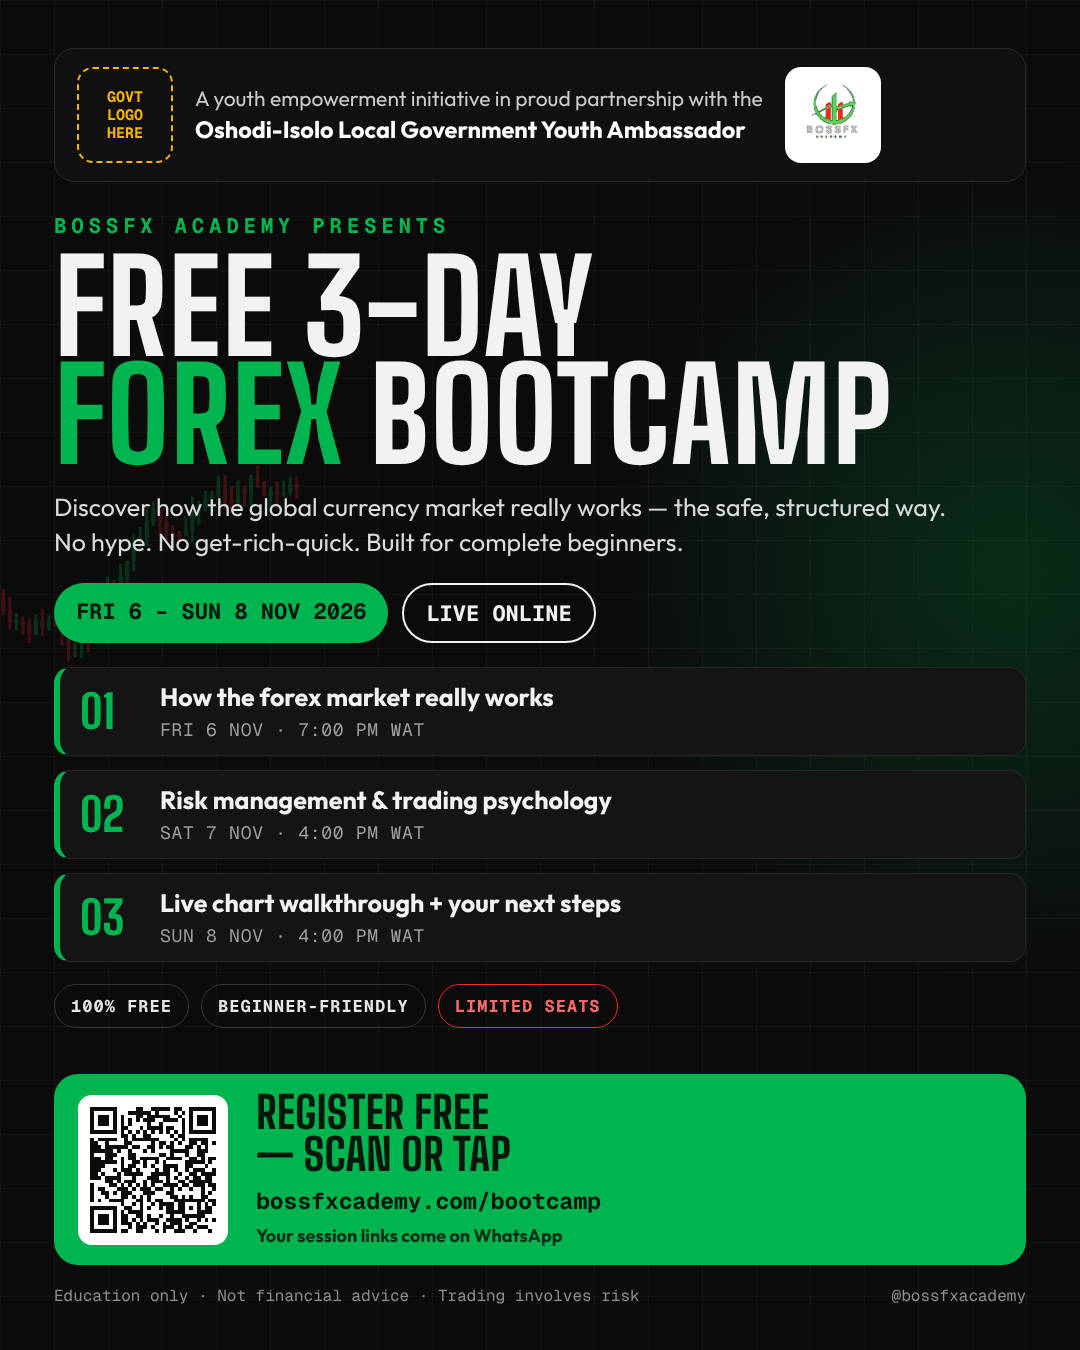
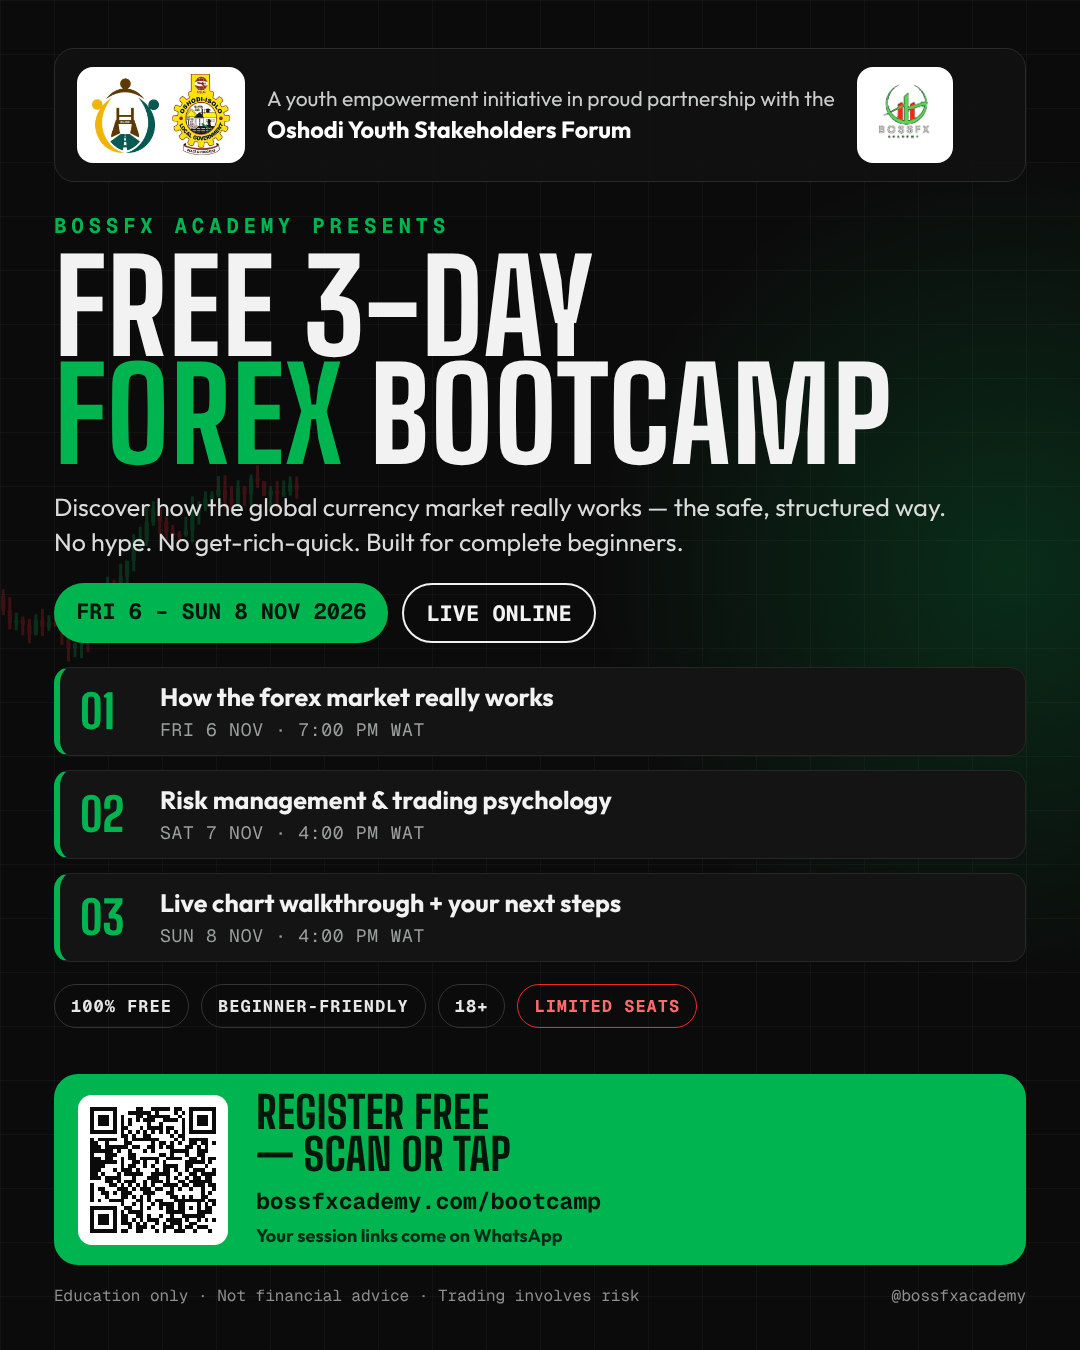
Bootcamp: credit Oshodi Youth Stakeholders Forum, refresh preview image
Claude-Session: https://claude.ai/code/session_014NTNTKExc1Q6o1ktrhgG1H

Changed region(s): [[0.0611, 0.0311, 0.8861, 0.1244], [0.4278, 0.7156, 0.5194, 0.7778], [0.55, 0.7156, 0.6111, 0.7467]]

diff --git a/bootcamp/index.html b/bootcamp/index.html
@@ -66,7 +66,7 @@ button[disabled]{opacity:.6;cursor:wait}
 <noscript><iframe src="https://www.googletagmanager.com/ns.html?id=GTM-T3R88HZB" height="0" width="0" style="display:none;visibility:hidden"></iframe></noscript>
 <main class="wrap">
   <div class="top"><span><b>BossFx</b> Academy</span><span>Free · Live online</span></div>
-  <div class="partner">A youth empowerment initiative in proud partnership with the <b>Oshodi-Isolo Local Government Youth Ambassador</b></div>
+  <div class="partner">A youth empowerment initiative in proud partnership with the <b>Oshodi Youth Stakeholders Forum</b></div>
 
   <h1>Free 3-Day<br><span>Forex</span> Bootcamp</h1>
   <p class="sub">Learn how the global currency market really works — the safe, structured way. No hype, no get-rich-quick. Built for complete beginners.</p>
